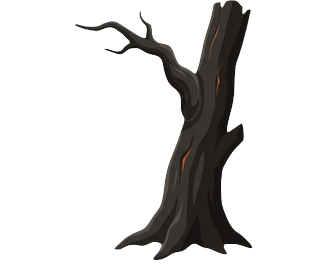
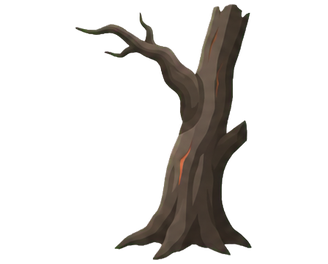
feat(art): 차원문 전투 굽은 탄 나무에 컷페이퍼 아트 적용

Changed region(s): [[0.2134, 0.0, 0.7622, 1.0]]

diff --git a/.art/PRODUCTION-STATUS.md b/.art/PRODUCTION-STATUS.md
@@ -210,7 +210,7 @@
 | `Background/Gate/tree_1.png` | 클라이언트 PR (이슈 #520) | **실제 경기 검수 대기.** 끝이 부러진 줄기와 기울어진 실루엣을 살린 무광 컷페이퍼 아트다. 277×242 RGBA, 기존 GUID·임포트와 알파 가로 외곽 및 바닥 높이를 유지했다. 알파 외곽의 위쪽은 3px 낮아졌다. |
 | `Background/Gate/tree_2.png` | 클라이언트 PR (이슈 #519) | **실제 경기 검수 대기.** 양쪽으로 갈라지는 가지와 그을린 줄기을 살린 무광 컷페이퍼 아트다. 265×222 RGBA, 기존 GUID·임포트와 알파 가로 외곽 및 바닥 높이를 유지했다. 알파 외곽의 위쪽은 1px 낮아졌다. |
 | `Background/Gate/tree_3.png` | 클라이언트 PR (이슈 #515) | **실제 경기 검수 대기.** 차원문 6단계 지도와 맞춘 무광 그루터기다. 열린 윗부분과 돌출된 뿌리, 어두운 주황 균열을 남겼다. 234×218, PPU 100, 하단 중앙 피벗. 알파 바닥선은 기존과 같고 외곽 폭은 207px에서 201px로 줄었다. |
-| `Background/Gate/tree_4.png` | 클라이언트 PR (이슈 #235) | **검수 대기, 자리표시 아트.** 차원문 모험(adventure 3) 전투 배경 theme 의 새 파일(`Background/Fortress/tree_4.png` 와 같은 이름·크기). 328x264 RGBA, 굽은 가지가 달린 굵은 탄 줄기. `GateBattleTheme.asset` 이 참조하고 `GateAdventure.asset` 의 `battleTheme` 이 이 asset 을 가리킨다. `agy` 생성, 초록 배경 key 제거. Editor 미검증 |
+| `Background/Gate/tree_4.png` | 클라이언트 PR (이슈 #518) | **실제 경기 검수 대기.** 굽은 큰 가지와 넓게 뻗은 뿌리을 살린 무광 컷페이퍼 아트다. 328×264 RGBA, 기존 GUID·임포트와 알파 가로 외곽 및 바닥 높이를 유지했다. 알파 외곽의 위쪽은 4px 낮아졌다. |
 | `Background/Gate/rock.png` | 클라이언트 PR (이슈 #235) | **검수 대기, 자리표시 아트.** 차원문 모험(adventure 3) 전투 배경 theme 의 새 파일(`Background/Fortress/rock.png` 와 같은 이름·크기). 452x166 RGBA, 불씨 금이 간 현무암 더미. `GateBattleTheme.asset` 이 참조하고 `GateAdventure.asset` 의 `battleTheme` 이 이 asset 을 가리킨다. `agy` 생성, 초록 배경 key 제거. Editor 미검증 |
 | `Background/Gate/grass_1.png` | 클라이언트 PR (이슈 #235) | **검수 대기, 자리표시 아트.** 차원문 모험(adventure 3) 전투 배경 theme 의 새 파일(`Background/Fortress/grass_1.png` 와 같은 이름·크기). 238x117 RGBA, 마른 재색 풀 한 포기와 불씨 둘. `GateBattleTheme.asset` 이 참조하고 `GateAdventure.asset` 의 `battleTheme` 이 이 asset 을 가리킨다. `agy` 생성, 초록 배경 key 제거. Editor 미검증 |
 | `Background/Gate/grass_2.png` | 클라이언트 PR (이슈 #235) | **검수 대기, 자리표시 아트.** 차원문 모험(adventure 3) 전투 배경 theme 의 새 파일(`Background/Fortress/grass_2.png` 와 같은 이름·크기). 466x99 RGBA, 마른 풀 다섯 포기 줄. `GateBattleTheme.asset` 이 참조하고 `GateAdventure.asset` 의 `battleTheme` 이 이 asset 을 가리킨다. `agy` 생성, 초록 배경 key 제거. Editor 미검증 |
